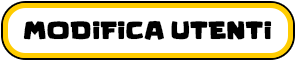
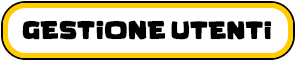
Modificata la voce modifica utenti in gestione utenti, rimosso il main dalla classe menu

diff --git a/src/Menu.java b/src/Menu.java
@@ -22,19 +22,6 @@ public class Menu extends JLayeredPane {
 
 	private Index i;
 
-	/**
-	 * Launch the application.
-	 */
-	public static void main(String[] args) {
-		EventQueue.invokeLater(new Runnable() {
-			public void run() {
-				try {
-				} catch (Exception e) {
-					e.printStackTrace();
-				}
-			}
-		});
-	}
 
 	/**
 	 * Create the application.
